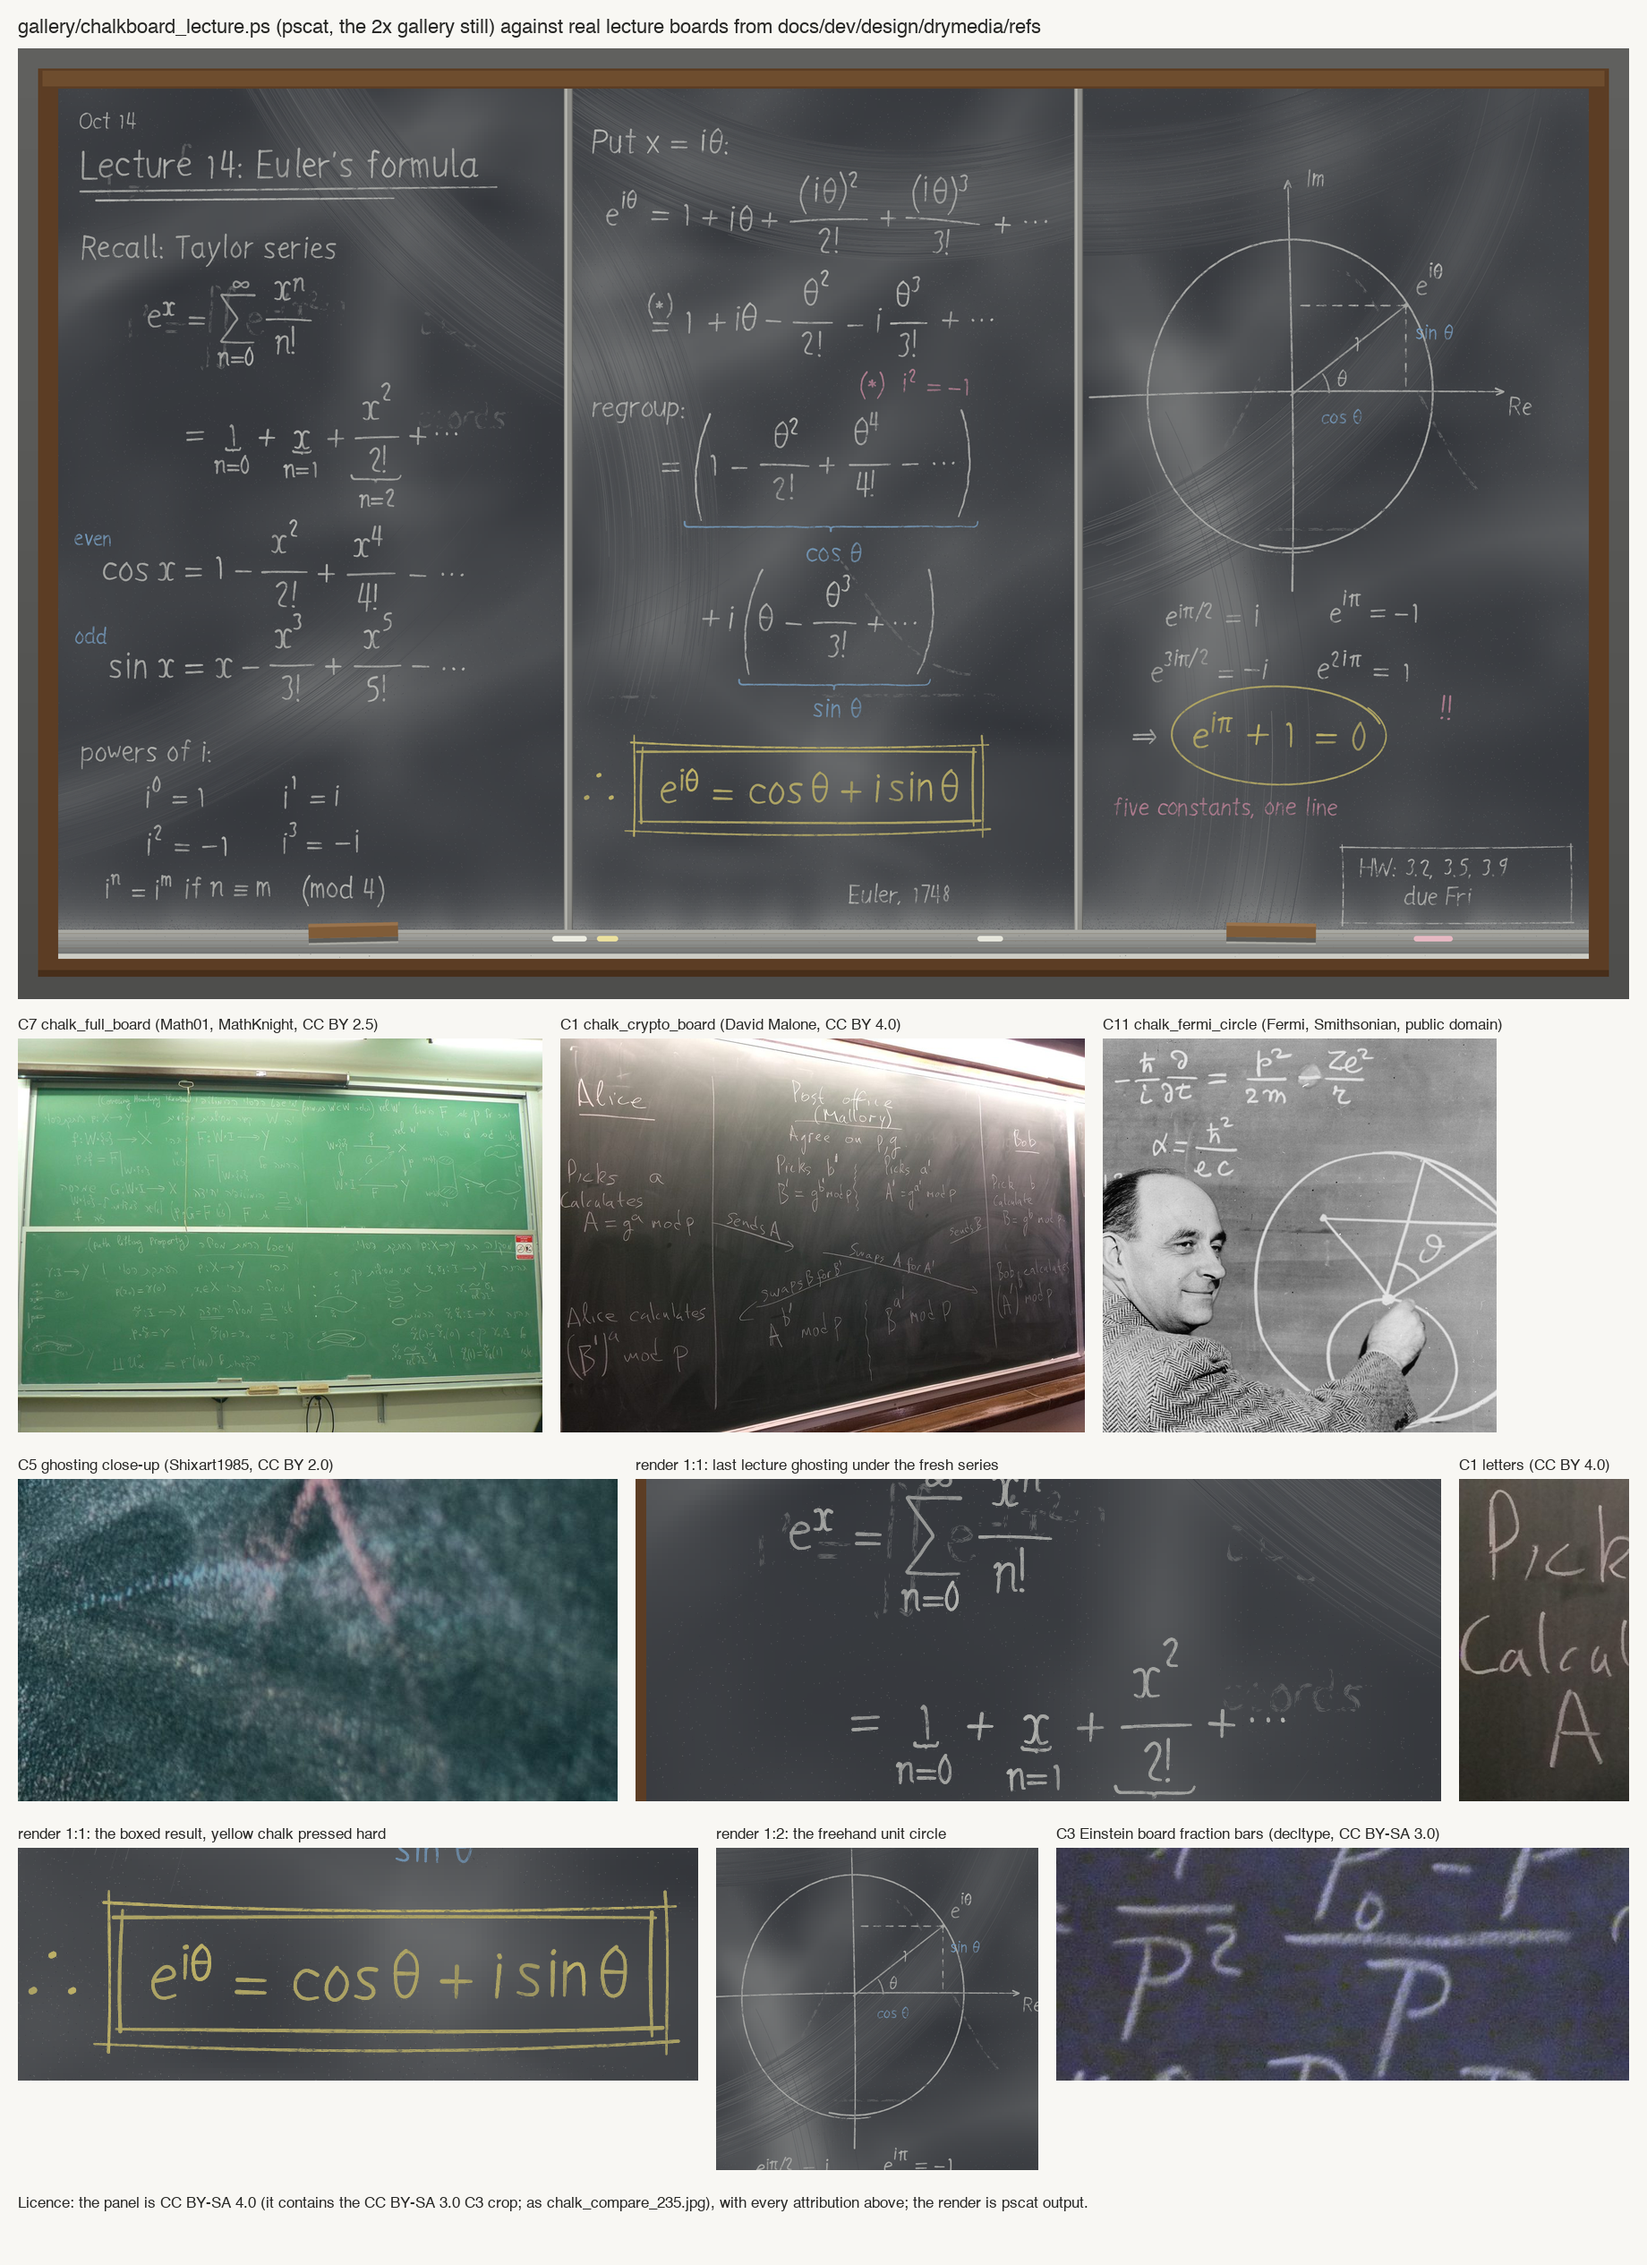
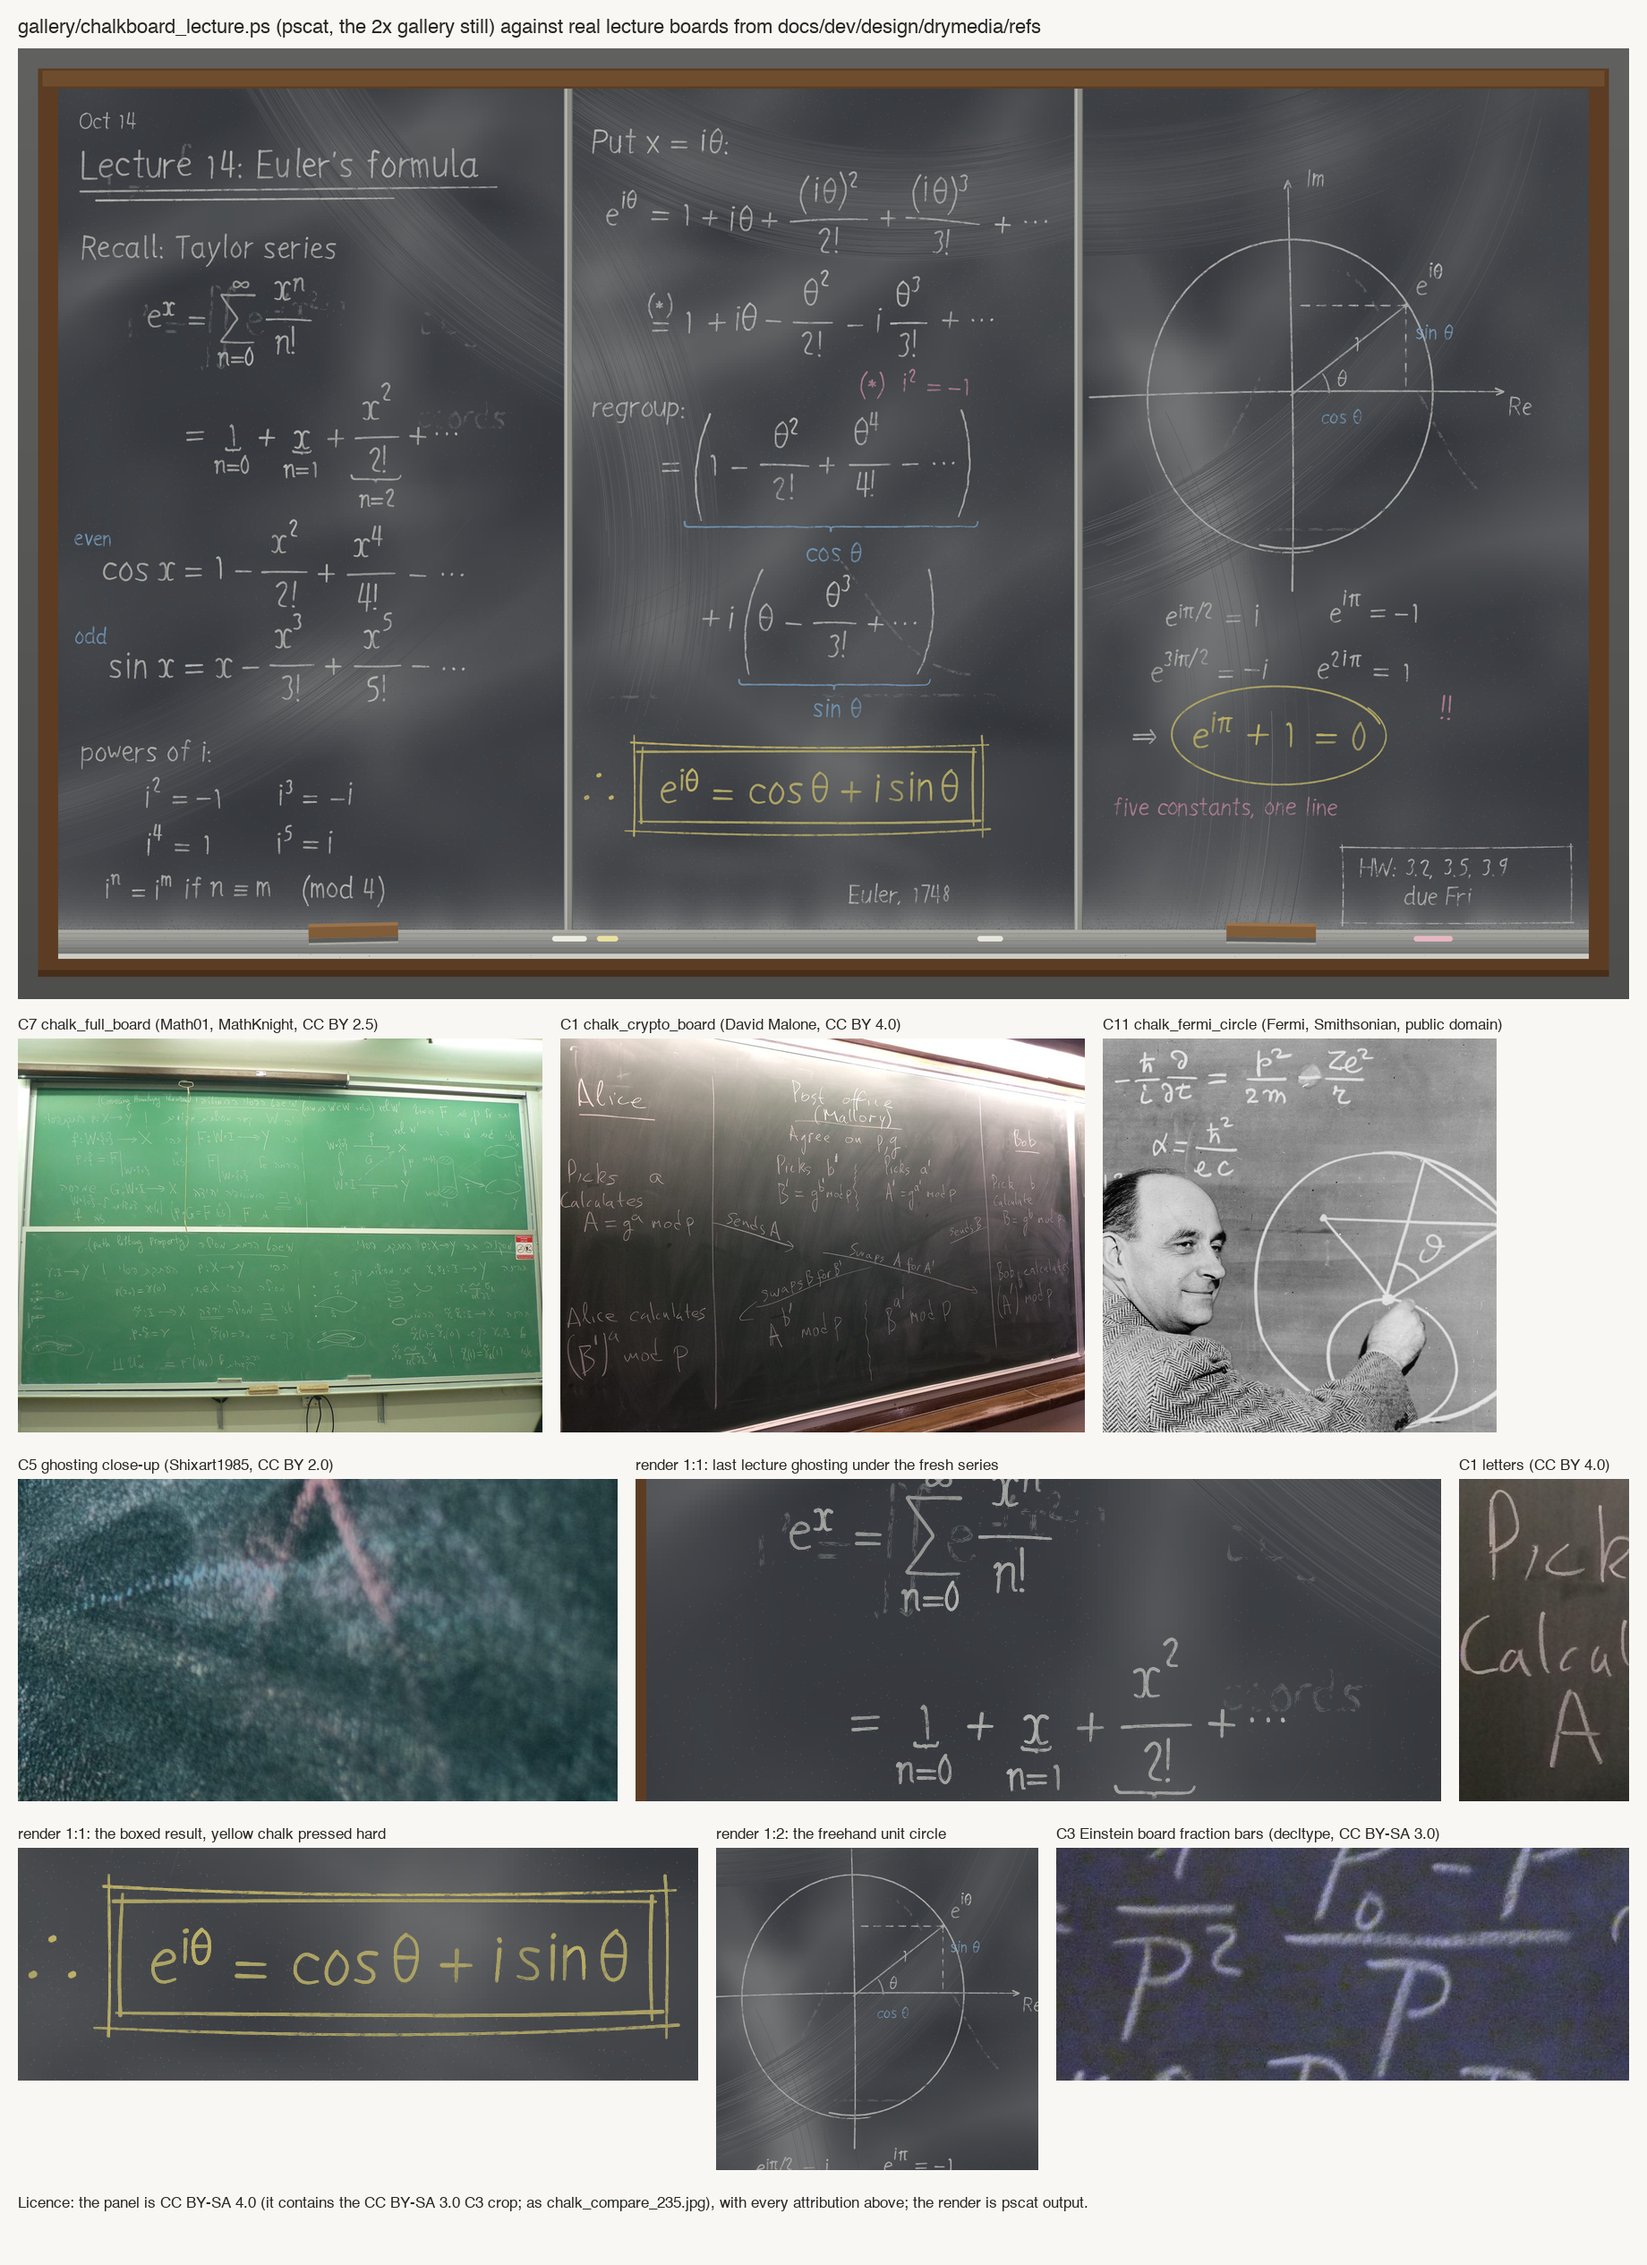
gallery: Lecture 14 powers of i run i^2..i^5; compare crop clears the sin label (#532)
At board size the superscript 1 of i^1 reads as a prime, so the table
starts at i^2 and shows the period-4 repeat with i^5 = i instead of
touching the glyph. The compare composite's boxed-result crop moves down
18 px so the new brace label above the box isn't cut in half.

Claude-Session: https://claude.ai/code/session_01GTbCLDB6QC7UV1i7qukUEL

Changed region(s): [[0.062, 0.8119, 0.4027, 0.9055], [0.1549, 0.3435, 0.1859, 0.3747]]

diff --git a/docs/dev/design/drymedia/prototypes/lecture_compare.py b/docs/dev/design/drymedia/prototypes/lecture_compare.py
@@ -54,7 +54,7 @@ row3 = [
     ('C1 letters (CC BY 4.0)', fit_h(ref('chalk_crypto_letters'), det_h)),
 ]
 row4 = [
-    ('render 1:1: the boxed result, yellow chalk pressed hard', render.crop((1000, 1180, 1760, 1440))),
+    ('render 1:1: the boxed result, yellow chalk pressed hard', render.crop((1000, 1198, 1760, 1458))),
     ('render 1:2: the freehand unit circle', render.crop((1960, 280, 2700, 1020)).resize((360, 360), Image.LANCZOS)),
     ('C3 Einstein board fraction bars (decltype, CC BY-SA 3.0)', fit_h(ref('chalk_einstein_fraction_bars'), 260)),
 ]

diff --git a/notes/532-chalkboard-final-pass.md b/notes/532-chalkboard-final-pass.md
@@ -13,7 +13,7 @@ changed.
   `\underbrace`s under the first three terms labelled n=0, n=1 and n=2. That
   is the step a lecturer takes from the sum to the expanded series. cos and
   sin keep "even" and "odd". The powers of i become a two-pair `mkalign`
-  (`i^0 = 1, i^1 = i / i^2 = -1, i^3 = -i`) with `/ColumnWander 1.5`. Under
+  (`i^2 = -1, i^3 = -i / i^4 = 1, i^5 = i`) with `/ColumnWander 1.5`. Under
   it is the rule `i^n = i^m if n ≡ m (mod 4)` (`\pmod`).
 - **Middle.** The second line of the substitution is
   `&\overset{(*)}{=}`, and a pink "(*) i² = −1" beside the next heading
@@ -28,6 +28,12 @@ changed.
   left, and leads to the circled e^{iπ} + 1 = 0.
 
 ## Design calls
+
+- **The table runs from i² to i⁵, not from i⁰.** At board size, the
+  superscript 1 in `i^1` reads as a prime (i′), and i′ is a different
+  symbol on a maths board. The glyph is left alone, as the design intent
+  asks, and the content changes instead. i⁵ = i also shows the period-4
+  repeat right above the mod 4 rule.
 
 - **`\overset{(*)}{=}`, not `\overset{i^2=-1}{=}`.** The latter was tried
   first. At chalk size the label's own = sits right over the relation's =,
@@ -59,8 +65,9 @@ changed.
   `--lint` is clean.
 - Ghostscript (`-dNOSAFER`, 72 dpi) renders the piece without error. The
   layout matches by eye. This is a correctness check only.
-- drykit: no `dkcatch` overflow and no refusal. #324 measured the lecture's
-  largest catch at under 5% of `dkbudget`. This pass adds a few short
+- drykit: the render completes with no error or refusal. Since #324 an
+  overflowing catch is split silently, so that is what can be observed.
+  #324 measured the lecture's largest catch at under 5% of `dkbudget`. This pass adds a few short
   strokes per panel, and the render stays well within DRYMEDIA 6.2's 30 s
   board budget.
 - `lecture_compare_238.png` was rebuilt with
@@ -69,3 +76,6 @@ changed.
   the committed composite, the base tree's rebuild differed only in the
   header caption: #465 renamed the refs path in the script and never
   regenerated the image. So this rebuild also refreshes that caption.
+  The boxed-result crop moved down 18 px, to `(1000, 1198, 1760, 1458)`,
+  so that the cos/sin brace's "sin θ" label, which now sits just above
+  the box, isn't cut in half along its top edge.
